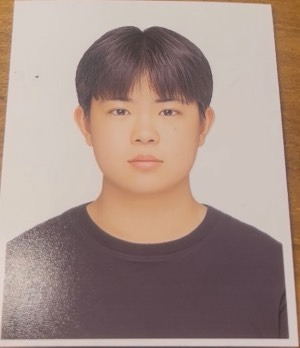
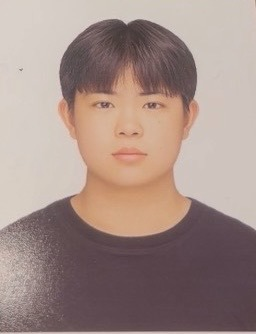
Update Oh Song-hyun details and photo

diff --git a/index.html b/index.html
@@ -659,7 +659,7 @@
     <script>
         if ('serviceWorker' in navigator) {
             window.addEventListener('load', () => {
-                navigator.serviceWorker.register('./sw.js?v=1.5').then(registration => {
+                navigator.serviceWorker.register('./sw.js?v=1.6').then(registration => {
                     console.log('Service Worker registered', registration);
 
                     registration.onupdatefound = () => {

diff --git a/sw.js b/sw.js
@@ -1,4 +1,4 @@
-const CACHE_NAME = 'mobile-id-v15';
+const CACHE_NAME = 'mobile-id-v16';
 const ASSETS = [
     './',
     './index.html',
